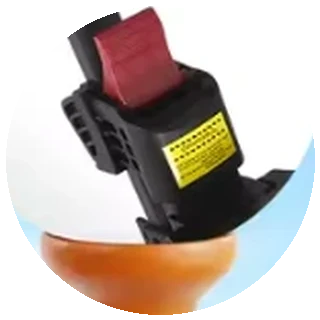
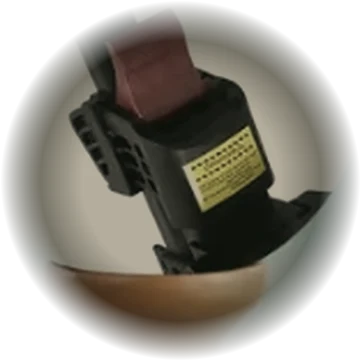
Golf site: price $290, photos graded and blended into the page
- Price set to $290
- Product cutouts: white fringe removed, blacks kept deep, warm
  upper-right rim light, soft light pool on the floor beneath
- Close-ups, cooler bag and boot photos split-toned into the palette
  (green-black shadows, cream highlights), feathered edges so they
  dissolve into the canvas instead of sitting in boxes

Claude-Session: https://claude.ai/code/session_01CJzd6jEkrB36yjpehTkSN1

diff --git a/golf/index.html b/golf/index.html
@@ -418,7 +418,7 @@ button { font: inherit; color: inherit; background: none; border: 0; cursor: poi
    Configurator
    ========================================================================== */
 .product { min-height: 100vh; padding: 14vh var(--gutter) 10vh; display: grid; grid-template-columns: 1.2fr 1fr; gap: clamp(24px, 4vw, 68px); align-items: center; }
-.cfg-stage { position: relative; aspect-ratio: 1.1; display: grid; place-items: center; border-radius: var(--radius-card); border: 1px dashed var(--color-rough); overflow: hidden; }
+.cfg-stage { position: relative; aspect-ratio: 1.1; display: grid; place-items: center; overflow: hidden; }
 .cfg-stage::before { content: ""; position: absolute; inset: 0; background: radial-gradient(circle closest-side at 55% 45%, color-mix(in srgb, var(--color-scorecard) 9%, transparent), transparent); }
 .cfg-stage .cart { width: 88%; position: relative; transition: transform .9s var(--ease-out); }
 .cfg-stage:hover .cart { transform: translateX(3%) rotate(-1deg); }
@@ -491,7 +491,7 @@ button { font: inherit; color: inherit; background: none; border: 0; cursor: poi
 .anat-photo { position: relative; width: min(100%, calc(80vh * 605 / 763)); aspect-ratio: 605 / 763; margin-inline: auto; }
 .anat-photo::before { content: ""; position: absolute; inset: -12%; background: radial-gradient(circle closest-side at 55% 50%, color-mix(in srgb, var(--color-scorecard) 15%, transparent), transparent); pointer-events: none; }
 .anat-photo .ph { position: absolute; inset: 0; will-change: transform; transition: transform .9s var(--ease-out); }
-.anat-photo img { width: 100%; height: 100%; display: block; filter: brightness(1.35) contrast(1.05); clip-path: inset(100% 0 0 0); transition: clip-path 1.6s var(--ease-io); }
+.anat-photo img { width: 100%; height: 100%; display: block; position: relative; clip-path: inset(100% 0 0 0); transition: clip-path 1.6s var(--ease-io); }
 .anat-photo.in img { clip-path: inset(0 0 0 0); }
 .hot { position: absolute; width: 26px; height: 26px; margin: -13px 0 0 -13px; border-radius: 50%; background: var(--color-scorecard); color: var(--color-clubhouse); font-size: 10px; display: grid; place-items: center; z-index: 2; transform: scale(0); transition: transform .7s var(--ease-out), background .3s, color .3s; }
 .anat-photo.in .hot { transform: scale(1); }
@@ -515,9 +515,9 @@ button { font: inherit; color: inherit; background: none; border: 0; cursor: poi
    ========================================================================== */
 .cooler { position: relative; height: 220vh; }
 .cooler-sticky { position: sticky; top: 0; height: 100vh; overflow: hidden; display: grid; grid-template-columns: 1.2fr 1fr; gap: clamp(24px, 4vw, 68px); align-items: center; padding: 80px var(--gutter) 40px; }
-.cooler-media { position: relative; height: min(76vh, 640px); border-radius: var(--radius-card); overflow: hidden; clip-path: circle(6% at 50% 50%); will-change: clip-path; }
+.cooler-media { position: relative; height: min(80vh, 680px); overflow: hidden; -webkit-mask: radial-gradient(closest-side, #000 58%, transparent 100%); mask: radial-gradient(closest-side, #000 58%, transparent 100%); clip-path: circle(6% at 50% 50%); will-change: clip-path; }
 .cooler-media img { width: 100%; height: 100%; object-fit: cover; display: block; will-change: transform; }
-.cooler-media .cup { position: absolute; inset: 0; border-radius: inherit; box-shadow: inset 0 0 0 1px var(--color-rough); pointer-events: none; }
+.cooler-media .cup { display: none; }
 .cooler-copy { display: flex; flex-direction: column; gap: 22px; }
 .chips { display: flex; flex-wrap: wrap; gap: 8px; list-style: none; }
 .chips li { border: 1px solid var(--color-rough); border-radius: var(--radius-ghost); padding: 7.5px 14px; font-size: 12px; display: inline-flex; gap: 8px; align-items: center; transition: border-color .3s, background .3s, transform .5s var(--ease-out); }
@@ -526,9 +526,9 @@ button { font: inherit; color: inherit; background: none; border: 0; cursor: poi
 
 .boot { padding: 12vh var(--gutter); }
 .boot-head { display: grid; grid-template-columns: 1fr 1fr; gap: var(--sp-18); align-items: end; margin-bottom: 6vh; }
-.boot-media { position: relative; border-radius: var(--radius-card); overflow: hidden; aspect-ratio: 770 / 362; width: min(100%, 1100px, 150vh); margin-inline: auto; }
+.boot-media { position: relative; overflow: hidden; aspect-ratio: auto !important; height: min(70vh, 62vw); -webkit-mask: radial-gradient(closest-side, #000 62%, transparent 100%); mask: radial-gradient(closest-side, #000 62%, transparent 100%); aspect-ratio: 770 / 362; width: min(100%, 1100px, 150vh); margin-inline: auto; }
 .boot-media img { width: 100%; height: 118%; object-fit: cover; display: block; will-change: transform; }
-.boot-media .tag { position: absolute; left: 18px; bottom: 18px; background: color-mix(in srgb, var(--color-clubhouse) 75%, transparent); backdrop-filter: blur(8px); border-radius: var(--radius-ghost); padding: 8px 14px; font-size: 12px; }
+.boot-media .tag { position: absolute; left: 50%; transform: translateX(-50%); bottom: 12%; white-space: nowrap; background: color-mix(in srgb, var(--color-clubhouse) 75%, transparent); backdrop-filter: blur(8px); border-radius: var(--radius-ghost); padding: 8px 14px; font-size: 12px; }
 .steps { display: grid; grid-template-columns: repeat(3, 1fr); gap: var(--sp-18); margin-top: 5vh; counter-reset: st; }
 .step { border-top: 1px dashed var(--color-rough); padding-top: 18px; position: relative; }
 .step::before { counter-increment: st; content: "0" counter(st); font-size: 42px; line-height: 1; display: block; margin-bottom: 14px; }
@@ -546,7 +546,8 @@ button { font: inherit; color: inherit; background: none; border: 0; cursor: poi
 .dim-fig { position: relative; margin: 0; --h: min(62vh, 560px); }
 .dim-fig.open { height: var(--h); aspect-ratio: 605 / 763; }
 .dim-fig.folded { height: calc(var(--h) * .819); aspect-ratio: 204 / 373; }
-.dim-fig img { width: 100%; height: 100%; display: block; filter: brightness(1.35); }
+.dim-fig img { width: 100%; height: 100%; display: block; position: relative; }
+.dim-fig::before, .anat-photo .ph::before, .cfg-stage .photo::before { content: ""; position: absolute; left: -12%; right: -12%; bottom: -5%; height: 22%; background: radial-gradient(ellipse closest-side, color-mix(in srgb, var(--color-scorecard) 13%, transparent), transparent); pointer-events: none; }
 .dim-fig svg { position: absolute; inset: 0; width: 100%; height: 100%; overflow: visible; }
 .dim-fig figcaption { position: absolute; left: 0; top: -36px; font-size: 12px; color: var(--color-bunker); }
 .dl { stroke: var(--color-scorecard); stroke-width: 1.5; fill: none; stroke-dasharray: 1; stroke-dashoffset: 1; transition: stroke-dashoffset 1.6s var(--ease-io); vector-effect: non-scaling-stroke; }
@@ -564,7 +565,7 @@ button { font: inherit; color: inherit; background: none; border: 0; cursor: poi
 
 /* Configurator photo + included list */
 .cfg-stage .photo { position: relative; width: 58%; height: auto; aspect-ratio: 605 / 763; transition: transform .9s var(--ease-out); will-change: transform; }
-.cfg-stage .photo img { width: 100%; height: 100%; display: block; filter: brightness(1.35) contrast(1.05); }
+.cfg-stage .photo img { width: 100%; height: 100%; display: block; position: relative; }
 .incl { list-style: none; display: flex; flex-wrap: wrap; gap: 8px; }
 .incl li { border: 1px dashed var(--color-rough); border-radius: var(--radius-ghost); padding: 7.5px 14px; font-size: 12px; display: inline-flex; align-items: center; gap: 8px; }
 .incl li::before { content: "✓"; font-size: 11px; }
@@ -841,7 +842,7 @@ button { font: inherit; color: inherit; background: none; border: 0; cursor: poi
   <a href="#story" class="hero-thumb" id="seeFold" data-cursor="Play">
     <span class="play"></span>
     <span class="label">See it fold</span>
-    <img class="mini-cart" src="img/cart-folded.webp" alt="" style="width:64px;right:10px;bottom:6px;filter:brightness(1.5)">
+    <img class="mini-cart" src="img/cart-folded.webp" alt="" style="width:64px;right:10px;bottom:6px">
   </a>
 
   <div class="scroll-cue" aria-hidden="true">Scroll<i></i></div>
@@ -1167,7 +1168,7 @@ button { font: inherit; color: inherit; background: none; border: 0; cursor: poi
    ========================================================================== */
 const PRODUCT = {
   name: 'Fairline One',
-  price: 349,            // placeholder: confirm before launch
+  price: 290,
   currency: 'USD',
   colour: 'Black',
   specs: [
